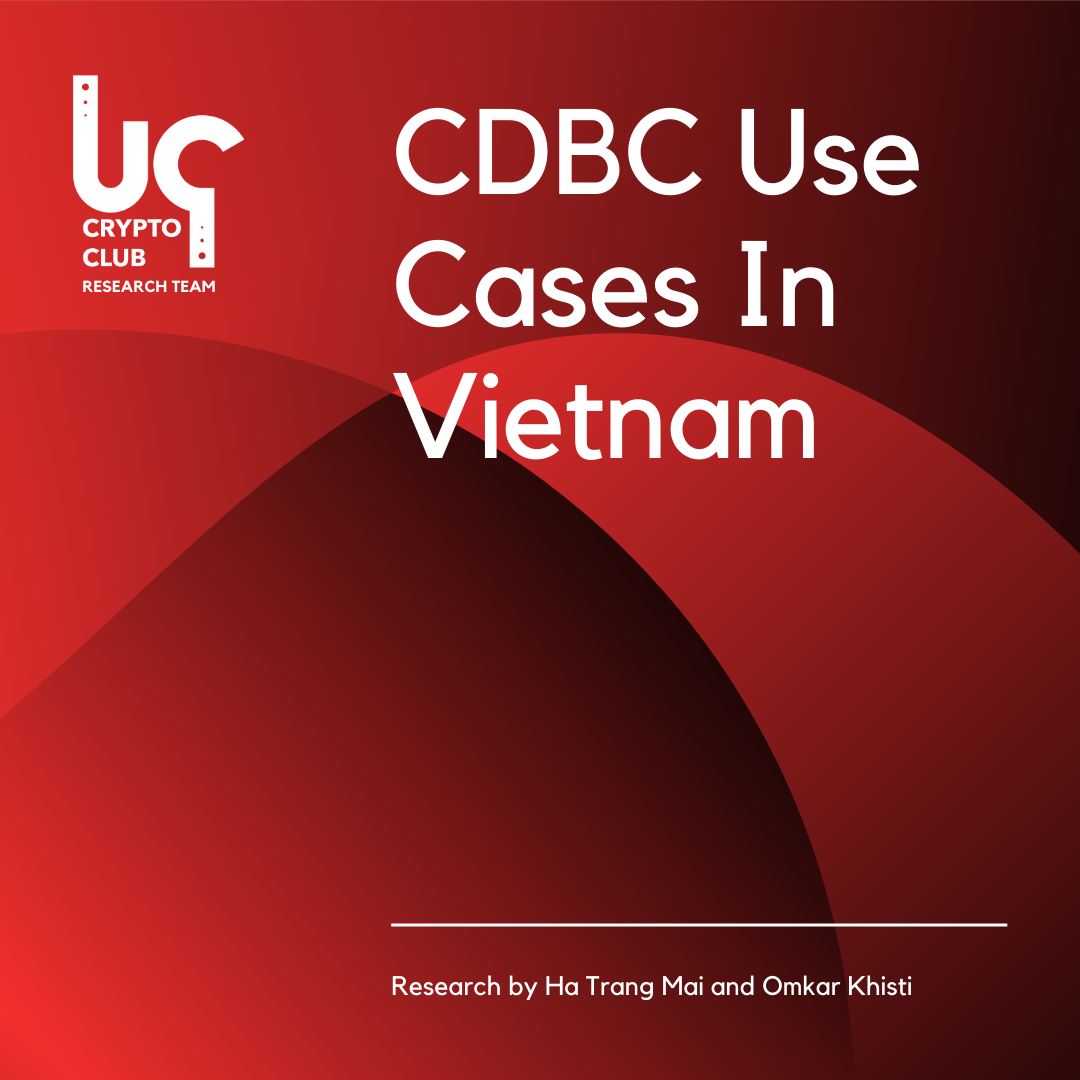
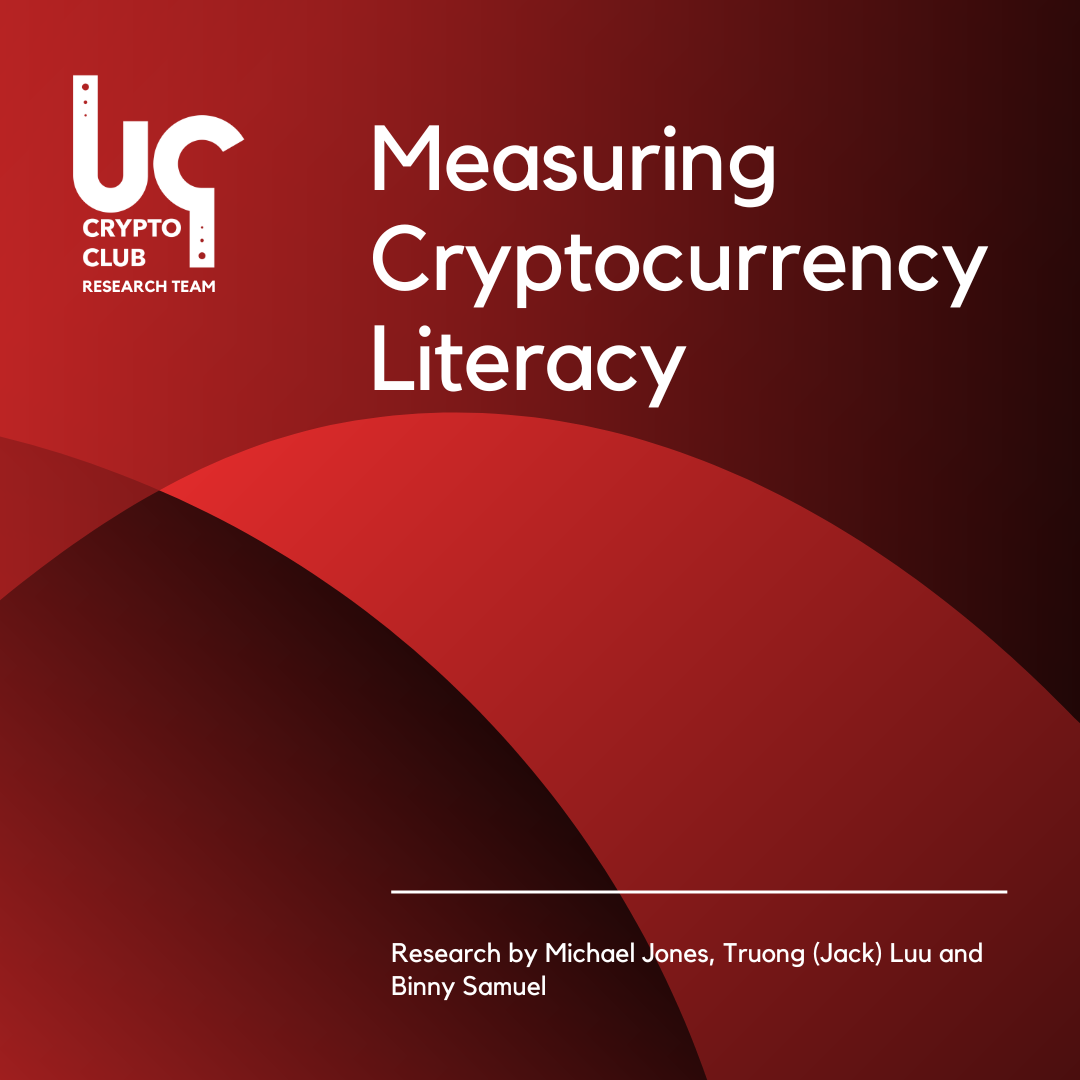
updated color accents, updated research section with new research card.

diff --git a/app/components/Research.jsx b/app/components/Research.jsx
@@ -8,7 +8,7 @@ const Research = () => {
     <div id="research" className="w-full md:h-screen p-2 flex">
       <div className="max-w-[1240px] m-auto items-center text-center">
         <div className="mb-12 mt-12 md:mt-0">
-          <h2 className="text-[#cfcfcf] mb-2"><span className=" text-[#bbfe64]">//&nbsp;</span>Check out our latest lab research</h2>
+          <h2 className="text-[#cfcfcf] mb-2"><span className=" text-[#FF204E]">//</span> Check out our latest lab research</h2>
           <p className="text-[#707173] mx-auto text-lg box w-[350px] md:w-[500px] lg:w-[600px]">
             Our research is focused on the latest trends in the cryptocurrency
             market. We are also working on a few projects that will be released
@@ -21,13 +21,21 @@ const Research = () => {
             <div id="item1" className="carousel-item">
             <Link href="https://papers.ssrn.com/sol3/papers.cfm?abstract_id=4541401" target="_blank">
               <img
-                src="/images/2.png"
+                src="/images/1.png"
                 className="rounded-box w-[370px] h-[370px] md:w-[400px] md:h-[400px]"
               />
               </Link>
             </div>
             <div id="item2" className="carousel-item">
               <Link href="https://papers.ssrn.com/sol3/papers.cfm?abstract_id=4757280" target="_blank">
+              <img
+                src="/images/2.png"
+                className="rounded-box w-[370px] h-[370px] md:w-[400px] md:h-[400px]"
+              />
+              </Link>
+            </div>
+            <div id="item3" className="carousel-item">
+              <Link href="https://scholarspace.manoa.hawaii.edu/items/dd70e48a-3e50-4f9f-83f4-d5a97a54146f" target="_blank">
               <img
                 src="/images/3.png"
                 className="rounded-box w-[370px] h-[370px] md:w-[400px] md:h-[400px]"
@@ -40,7 +48,6 @@ const Research = () => {
             <a href="#item1" className="btn bg-[#191a1e] btn-xs hover:text-[#FF204E] transform duration-300">1</a> 
             <a href="#item2" className="btn bg-[#191a1e] btn-xs hover:text-[#FF204E] transform duration-300">2</a> 
             <a href="#item3" className="btn bg-[#191a1e] btn-xs hover:text-[#FF204E] transform duration-300">3</a> 
-            <a href="#item4" className="btn bg-[#191a1e] btn-xs hover:text-[#FF204E] transform duration-300">4</a>
           </div>
       </div>
     </div>

diff --git a/app/components/LandingPage.jsx b/app/components/LandingPage.jsx
@@ -15,7 +15,7 @@ const LandingPage = () => {
         <div className="mt-44 md:mt-0 grid grid-cols-1 md:grid md:grid-cols-2 gap-6 lg:gap-16">
           <div className="z-10 bg-[#030303] bg-opacity-70 rounded-lg p-4">
             <div className="text-left">
-              <h3 className="uppercase text-[#bbfe64]">
+              <h3 className="uppercase text-[#FF204E]">
                 University of Cincinnati
               </h3>
               <h1 className="flex uppercase text-white items-center">
@@ -28,10 +28,10 @@ const LandingPage = () => {
               </h1>
               <p className="mt-2 text-[#cfcfcf] text-md lg:text-lg box box-border lg:h-[120px] lg:w-[500px]">
                 The{" "}
-                <span className="text-[#bbfe64]">UC Cryptocurrency Club</span>{" "}
+                <span className="text-[#FF204E]">UC Cryptocurrency Club</span>{" "}
                 offers students hands-on learning in blockchain and{" "}
                 cryptocurrency, supported by industry donations. With access to{" "}
-                <span className="text-[#bbfe64]">cutting-edge technology</span>{" "}
+                <span className="text-[#FF204E]">cutting-edge technology</span>{" "}
                 and a dedicated fund, students are prepared for the digital
                 economy and drive innovation at UC.
               </p>

diff --git a/app/components/About.jsx b/app/components/About.jsx
@@ -47,7 +47,7 @@ const About = () => {
         >
           <div className="mt-28">
             <h2 className="text-[#cfcfcf] mx-auto">
-              <span className=" text-[#bbfe64]">//&nbsp;</span> Meet our team
+              <span className=" text-[#FF204E]">//&nbsp;</span> Meet our team
             </h2>
             <p className="text-lg text-[#707173] mx-auto text-center md:mx-0">
               Get to know the talented individuals shaping our vision

diff --git a/app/components/ClubResearch.jsx b/app/components/ClubResearch.jsx
@@ -8,7 +8,7 @@ const ClubResearch = () => {
     <div id="clubresearch" className="w-full md:h-screen p-2 flex">
       <div className="max-w-[1240px] m-auto items-center text-center">
         <div className="mb-12 mt-12 md:mt-0">
-          <p className="text-lg text-[#bbfe64]">
+          <p className="text-lg text-[#FF204E]">
           From members of our club
           </p>
           <h2 className="text-[#cfcfcf] mb-2 mt-4">Club research</h2>

diff --git a/app/components/StickyLinks.jsx b/app/components/StickyLinks.jsx
@@ -7,7 +7,7 @@ const StickyLinks = () => {
     
       <div className="fixed z-20 lg:left-32 lg:top-4 max-lg:hidden">
         <Image
-          className="opacity-60"
+          className="opacity-30"
           src="/images/crypto_logo.svg"
           alt="UC Cryptocurrency Club"
           width={110}
